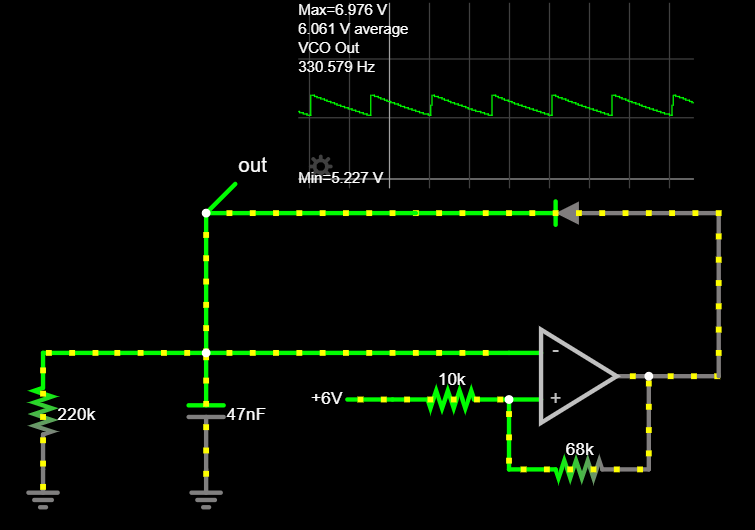
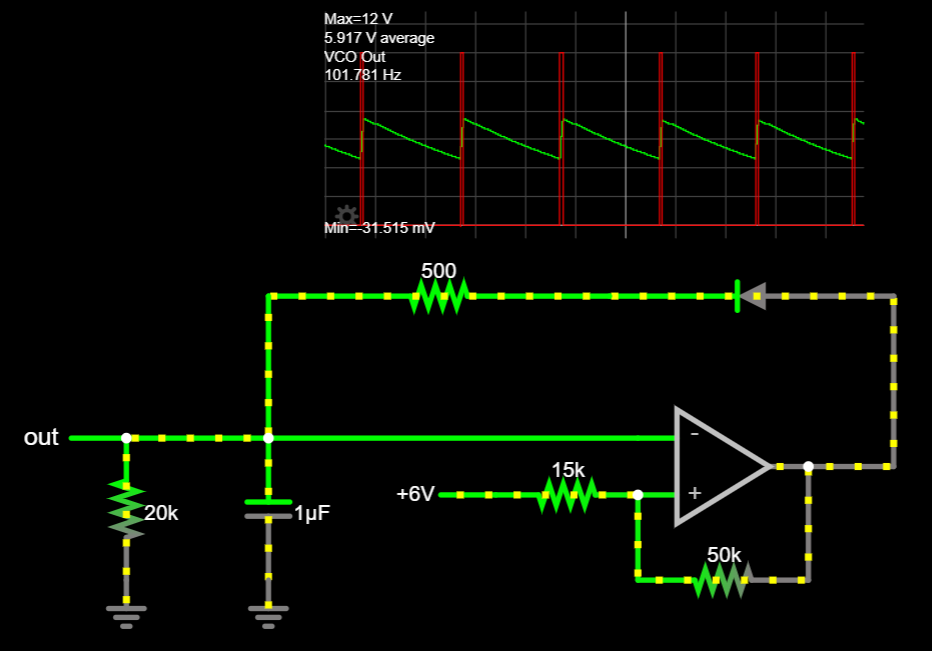
finish saw core (no vco)

Changed region(s): [[0.0305, 0.0, 0.9748, 0.966], [0.7616, 0.6642, 0.7921, 0.6943]]

diff --git a/index.md b/index.md
@@ -179,6 +179,8 @@ Comparators can be thought of as a subset of a more general device we'll examine
 
 <img src="res/ideal-opamp.jpg" height=200 />
 
+[//]: # (http://www.ee.surrey.ac.uk/Projects/CAL/frequency-response/idealopamp.html)
+
 The name "operational amplifier" (aka "opamp") originates from a component that can do mathematical _operations_ with amplification. Depending on its placement and configuration in the circuit, the operational amplifier can be made to perform a variety of computations, from basic arithmetic (eg. addition and subtraction) to advanced operations such as integration or differentiation. However, the output follows a simple formula which, in isolation, provides a principle of operation for us to understand:
 
 $$V_{out} = A_{opamp}*(V_+ - V_-)$$
@@ -294,13 +296,27 @@ Importantly, the above circuit uses +12V and 0V, and **not** -12V, for powering 
 
  It may take a bit more time to process how the new circuitry creates an oscillator, but you already know everything you need to understand it.
  
- Previously, we supplied a sine input at the inverting (-) terminal, which the comparator responded to. However, we could supply any input, as long as it eventually hits the trip points that the comparator needs to change its output. (Go back and run the simulation, changing the input source to a triangle or sawtooth.) 
+ Previously, we supplied a sine input at the inverting (-) terminal, which the comparator responded to. However, we could supply any "sweeping" input, as long as it eventually passes both trip points that the comparator needs to change its output. (Go back and run the simulation, changing the input source to a triangle or sawtooth, to see that this is the case.) 
  
- The comparator always outputs either "high" or "low" — in this case, +12V or 0V — so we can think of it as creating a rudimentary voltage supply. If we connect this output to an RC network, we'll get a capacitor that charges and discharges according to an RC time constant, τ, proportional to the values of R and C. This looks roughly the same as a voltage source input, and therefore provides the hysteretic comparator with the ability to oscillate!
+ The comparator always outputs either "high" or "low" — in this case, +12V or 0V — so we can think of it as creating a rudimentary voltage supply. If we connect this output to an RC network, we'll get a capacitor that charges and discharges according to an RC time constant, τ, proportional to the values of R and C. 
+
+ <img src="res/hysteretic-comparator-cap-output.png" height=300 />
+
+ _Connecting an RC network to the output of the comparator makes a "triangle" waveform, using the comparator as the supply. [[Falstad]](https://tinyurl.com/2qw5vgww)_
+  
+ This looks roughly the same as the input we've been using on the hysteretic comparator, so what if we used it the capacitor voltage to replace the voltage source? We would get a self-oscillating circuit!
  
- You'll find that $R_{charge}$ in the feedback path sets the oscillation frequency, by limiting current flow to the capacitor. However, the trip points _also_ affect oscillation frequency by controlling how far the capacitor must charge/discharge to trip the comparator. That said, they should not be used to vary the oscillation frequency. Larger hysteretic windows cause the RC response to become more "exponential" as the trip points move closer to the comparator rails. For a better "triangle" shape that looks linear, set the trip points closer together, so that they occupy a smaller fraction of the RC charging/discharging graph. For example, charging a capacitor from 5V to 7V has an imperceptible curve and will appear perfectly linear.
+<img src="res/tri-core-falstad.png" height=300 />
+
+_This is the same triangle oscillator core from before, but it should make a little more sense. [[Falstad]](https://tinyurl.com/2qcdnmht)_
+
+ You'll find that $R_{charge}$ in the feedback path sets the oscillation frequency, by limiting current flow to the capacitor. 
+ 
+ The trip points _also_ affect oscillation frequency by controlling how far the capacitor must charge/discharge to trip the comparator. That said, they should _not_ be used to vary the oscillation frequency. Larger hysteretic windows cause the RC response to become more "exponential" as the trip points move closer to the comparator rails. For a better "triangle" shape that looks linear, we want to set the trip points closer together, so that they occupy a smaller fraction of the RC charging/discharging graph. For example, charging a capacitor from 5V to 7V has an imperceptible curve and will appear perfectly linear.
 
  <img src="res/rc-charge-discharge.png" height=300 />
+
+_The entire RC curve is clearly not linear, but the segment from 5V to 7V is._
 
 You can (and should) try to build this oscillator before moving on. Although we are using it as a stepping stone to a sawtooth oscillator, you could implement it as an oscillator to use in your final synth!
 
@@ -312,17 +328,45 @@ In the next section, we'll turn the triangle core into a sawtooth oscillator.
 
 ### The Sawtooth Core
 
+A triangle wave is symmetric — it looks the same on the "charge" and "discharge" segments of one period. A sawtooth wave is asymmetric, but we can think about how we might alter a triangle wave to look like a saw: if that wave had an infinitely-fast charge time, and a normal triangle discharge time, the triangle would become a sawtooth!
 
+<img src="res/tri-to-saw.gif" height=100 />
 
-The sawtooth core begins with the simple circuit below, which consists of a single capacitor, a diode, a comparator, and a few resistors. Depending on component values, it can reach frequencies as low as 10-20Hz, and as high as several kHz.
+This is useful. If we can make the current flow _into_ the capacitor (during charging) _faster_ than the current flowing _out_ of the capacitor (during discharge), then we can create asymmetries in the charging and discharging times. The easiest way to do this is with a **diode**. 
+
+Diodes allow current to flow solely in the direction they point toward, and (mostly) prevent current from flowing backward. This gives us the ability to specify unique paths for current flow during the charge and discharge phases. In particular, if we place a single diode with no resistors in its feedback path, we'll create a short-circuit that immediately charges the capacitor when the comparator output is high, yet acts like an open-circuit when the output is low. This means that the capacitor will still discharge through the 15kΩ resistor, and current will take the short-circuit path through the diode only when charging.
+
+<img src="res/tri-to-saw-falstad.png" height=300 />
+
+_Connecting a diode across the feedback path allows current to flow onto the capacitor immediately during charging, creating a sawtooth waveform. (Check out the sim to change the "sawtooth-ness" by adding resistance to the diode path.) [[Falstad]](https://tinyurl.com/2qlh8ez6)_
+
+Because the discharge path is a resistor to 0V, we can modify the circuit slightly without changing its function much: let's connect the discharge resistor directly to GND instead of the comparator output. 
 
 <img src="res/saw-core-falstad.png" height=300 />
 
-_[Sawtooth core [Falstad]](https://tinyurl.com/279leub2)_
+_Our first sawtooth core. [[Falstad]](https://tinyurl.com/2e4andwe)_
 
-We want the ability to produce sound at a variable frequency; therefore, what we want is a variable oscillator which changes output frequency over the audible range of 20Hz - 20kHz. 
+This isn't _exactly_ the same circuit, because now the resistor is always connected to 0V (even during the charging phase). However, the magnitude of current through the diode is so large during charging, that the discharge current is negligible by comparison. 
 
-The term "variable" implies that something is changing, but what? There are several options when it comes to the "variable" part of a variable oscillator:
+(Open the sim, and you'll see that there are limits to this statement. For example, if the diode resistance gets "too large" relative to the discharge path, then the capacitor can't charge enough to hit the upper trip point.)
+
+Barring some component differences, this is approaching the sawtooth core that we'll use for our synthesizer. Depending on component values, we'll be able to make sharper "saw" edges, and reach different frequencies. At present, this core can reach frequencies around 700 Hz, but experiment with the component values in the simulation, and you'll see that this core can reach frequencies as low as 10-20Hz, and potentially as high as several kHz.
+
+(Note: Right-click the plot in Falstad, and you can change the horizontal scale to zoom in and see higher frequencies more clearly. If you're at the right scale, it will be able to automatically calculate the frequency and display it on the scope window.)
+
+### Build Notes from the Basic Saw Core
+
+_**Under Construction**_
+
+Here I'm going to put a breadboard schematic, picture of the breadboard. This is where we'll replace the "resistor" in the discharge path with a potentiometer.
+
+Notes about:
+- diode selection, and how the wrong diode can mess this up by adding capacitance and reverse current
+- capacitor sizing, and how the capacitance should be low to get a sharp rise time and low discharge current
+
+
+### Adding Voltage Control
+We want the ability to produce sound at a variable frequency. While the term "variable" implies that something is changing, it's not obvious what that ought to be. Right now, we can change the frequency of the sawtooth core by changing the resistance.  There are several options when it comes to the "variable" part of a variable oscillator:
 - Component values (eg. resistors, capacitors)
 - Voltage
 - Current
